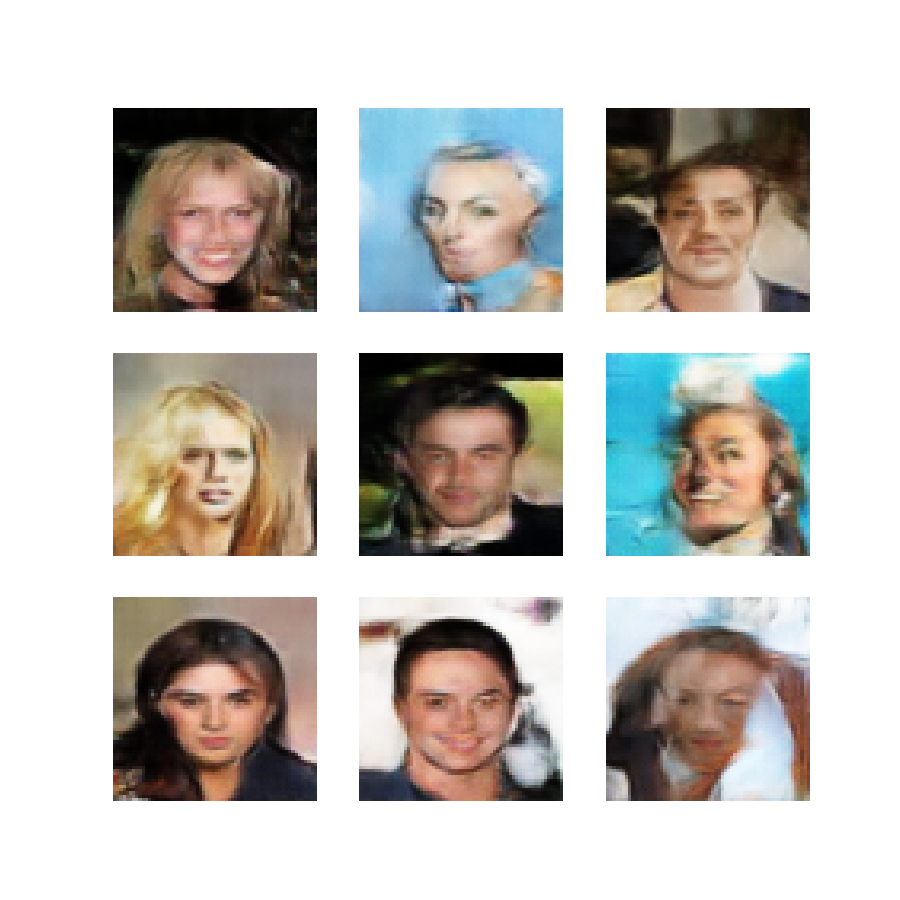
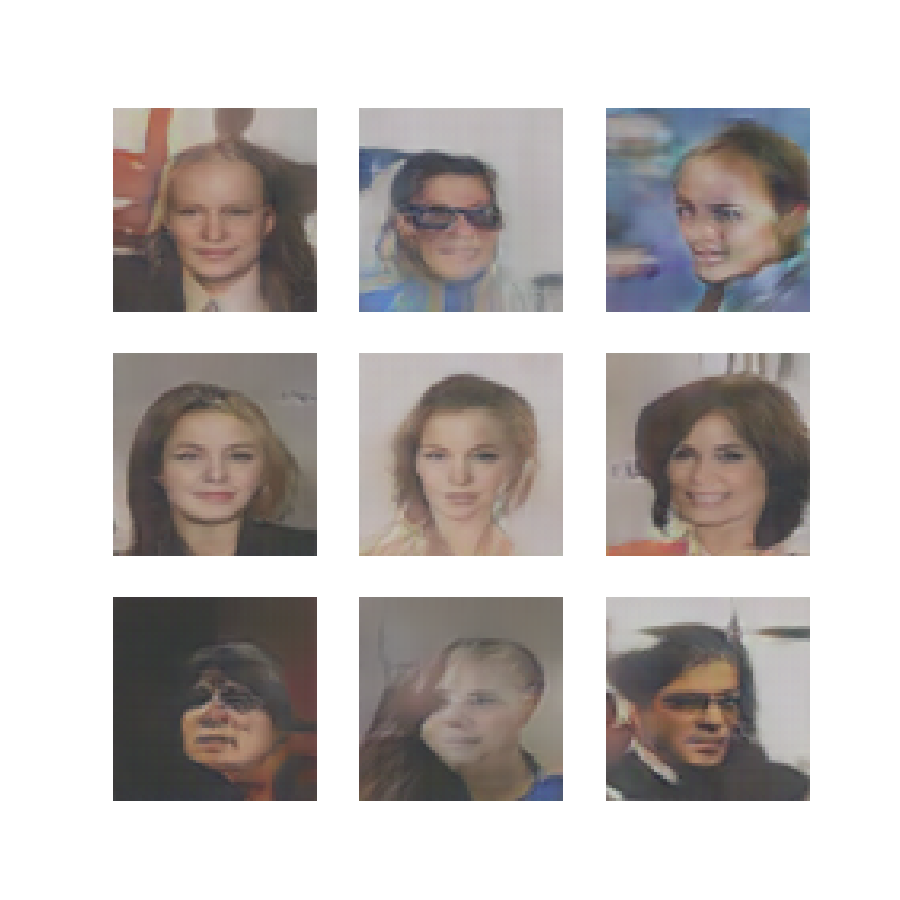
made some experimental optimization changes

diff --git a/6LayerGANForFaces-Full_Size-Optimized.py b/6LayerGANForFaces-Full_Size-Optimized.py
@@ -8,6 +8,8 @@ import numpy as np
 import math
 from PIL import Image
 import os
+from torch.cuda.amp import GradScaler
+from torch.nn import BCEWithLogitsLoss
 
 device = torch.device("cuda" if torch.cuda.is_available() else "cpu")
 
@@ -33,7 +35,7 @@ class CelebADataset(Dataset):
 
 # Reshape data and scale to [-1, 1]
 transform = transforms.Compose([
-    transforms.Resize((64, 64)),
+    transforms.Resize((128, 128)),
     transforms.ToTensor(),
 ])
 
@@ -48,7 +50,7 @@ global_batch_size = 64
 # Create a data loader
 # num_gpus = torch.cuda.device_count()
 # print("Number of available GPUs:", num_gpus)
-dataloader = DataLoader(dataset, batch_size=global_batch_size, shuffle=True, pin_memory=True, num_workers=8)
+dataloader = DataLoader(dataset, batch_size=global_batch_size, shuffle=True, num_workers=8, pin_memory=True)
 
 # Create a 3x3 grid for the images
 fig, axes = plt.subplots(3, 3, figsize=(9, 9))
@@ -62,7 +64,7 @@ for i in range(9):
     axes[i].axis('off')  # Turn off axes for cleaner look
 
 base = 'produced_images'
-plt.savefig(os.path.join(base, 'celeba_sample.png'))
+plt.savefig(os.path.join(base, 'celeba_sample_128.png'))
 plt.close(fig)
 
 # Define Generator Class
@@ -71,25 +73,30 @@ class Generator(nn.Module):
         super(Generator, self).__init__()
         self.main = nn.Sequential(
             # input is Z, going into a convolution
-            nn.ConvTranspose2d(100, 512, 4, 1, 0, bias=False),
+            nn.ConvTranspose2d(100, 1024, 4, 1, 0, bias=False),
+            nn.BatchNorm2d(1024),
+            nn.ReLU(True),
+            # state size. 1024 x 4 x 4
+            nn.ConvTranspose2d(1024, 512, 4, 2, 1, bias=False),
             nn.BatchNorm2d(512),
             nn.ReLU(True),
-            # state size. 512 x 4 x 4
+            # state size. 512 x 8 x 8
             nn.ConvTranspose2d(512, 256, 4, 2, 1, bias=False),
             nn.BatchNorm2d(256),
             nn.ReLU(True),
-            # state size. 256 x 8 x 8
+            # state size. 256 x 16 x 16
             nn.ConvTranspose2d(256, 128, 4, 2, 1, bias=False),
             nn.BatchNorm2d(128),
             nn.ReLU(True),
-            # state size. 128 x 16 x 16
-            nn.ConvTranspose2d(128, 64, 4, 2, 1, bias=False),
+            # state size. 128 x 32 x 32
+            nn.ConvTranspose2d(128, 64, 4, 2, 1, bias=False), 
             nn.BatchNorm2d(64),
             nn.ReLU(True),
-            # state size. 64 x 32 x 32
+            # state size. 64 x 64 x 64
+
             nn.ConvTranspose2d(64, 3, 4, 2, 1, bias=False),  # Output 3 channels for RGB
             nn.Tanh()
-            # state size. 3 x 64 x 64
+            # state size. 3 x 128 x 128
         )
 
     def forward(self, input):
@@ -101,27 +108,30 @@ class Discriminator(nn.Module):
     def __init__(self):
         super(Discriminator, self).__init__()
         self.main = nn.Sequential(
-            # Input: 3 x 64 x 64
+            # Input: 3 x 128 x 128
             nn.Conv2d(3, 64, 3, stride=2, padding=1),
-            nn.BatchNorm2d(64),
             nn.LeakyReLU(0.2, inplace=True),
-            # state size. 64 x 32 x 32
+            # state size. 64 x 64 x 64
             nn.Conv2d(64, 128, 3, stride=2, padding=1),
             nn.BatchNorm2d(128),
             nn.LeakyReLU(0.2, inplace=True),
-            # state size. 128 x 16 x 16
+            # state size. 128 x 32 x 32
             nn.Conv2d(128, 256, 3, stride=2, padding=1),
             nn.BatchNorm2d(256),
             nn.LeakyReLU(0.2, inplace=True),
-            # state size. 256 x 8 x 8
+            # state size. 256 x 16 x 16
             nn.Conv2d(256, 512, 3, stride=2, padding=1),
             nn.BatchNorm2d(512),
             nn.LeakyReLU(0.2, inplace=True),
-            # state size. 512 x 4 x 4
+            # state size. 512 x 8 x 8
+            nn.Conv2d(512, 1024, 3, stride=2, padding=1),
+            nn.BatchNorm2d(1024),
+            nn.LeakyReLU(0.2, inplace=True),
+            # state size. 1024 x 4 x 4
 
-            nn.Conv2d(512, 1, kernel_size=4, stride=1, padding=0),
+            nn.Conv2d(1024, 1, kernel_size=4, stride=1, padding=0),
             # state size. 1 x 1 x 1
-            nn.Sigmoid()
+            # nn.Sigmoid()
             # state size. 1
         )
 
@@ -135,18 +145,15 @@ netD = Discriminator().to(device)
 
 # Hyperparameters
 num_epochs = 20
-lr = 0.002
+lr = 0.0002
 beta1 = 0.5
 
 # Binary cross entropy loss and optimizer
-criterion = nn.BCELoss()
+scaler = GradScaler()
+criterion = BCEWithLogitsLoss()
 
 optimizerD = torch.optim.Adam(netD.parameters(), lr=lr, betas=(beta1, 0.999))
 optimizerG = torch.optim.Adam(netG.parameters(), lr=lr, betas=(beta1, 0.999))
-
-gen_loss = []
-dis_loss = []
-batch_count = []
 
 dataloader_length = len(dataloader)
 
@@ -159,32 +166,32 @@ for epoch in range(1, num_epochs + 1):
         label = torch.full((batch_size,), 1, dtype=torch.float, device=device)
 
         # Train Discriminator
-        netD.zero_grad()
-        output = netD(real_data).view(-1)
-        errD_real = criterion(output, label)
-        errD_real.backward()
+        netD.zero_grad(set_to_none=True)
+        with torch.cuda.amp.autocast():
+            output = netD(real_data).view(-1)
+            errD_real = criterion(output, label)
+        scaler.scale(errD_real).backward()
         
         noise = torch.randn(batch_size, 100, 1, 1, device=device)
         fake = netG(noise)
-        label.fill_(0) # The discriminator wants to classify the fake images as fake
-        output = netD(fake.detach()).view(-1)
-        errD_fake = criterion(output, label)
-        errD_fake.backward()
+        label.fill_(0)
+        with torch.cuda.amp.autocast():
+            output = netD(fake.detach()).view(-1)
+            errD_fake = criterion(output, label)
+        scaler.scale(errD_fake).backward()
         errD = errD_real + errD_fake
-        optimizerD.step()
+        scaler.step(optimizerD)
+        scaler.update()
 
         # Train Generator
-        netG.zero_grad()
+        netG.zero_grad(set_to_none=True)
         label.fill_(1)  # The generator wants the discriminator to think the fake images are real
-        output = netD(fake).view(-1)
-        errG = criterion(output, label)
-        errG.backward()
-        optimizerG.step()
-
-        # Save Losses for plotting later
-        gen_loss.append(errG.item())
-        dis_loss.append(errD.item())
-        batch_count.append(i + dataloader_length * epoch)
+        with torch.cuda.amp.autocast():
+            output = netD(fake).view(-1)
+            errG = criterion(output, label)
+        scaler.scale(errG).backward()
+        scaler.step(optimizerG)
+        scaler.update()
 
         if i % 50 == 0:
             print(f'[{epoch}/{num_epochs}][{i}/{dataloader_length}] Loss_D: {errD.item():.4f} Loss_G: {errG.item():.4f}')
@@ -209,16 +216,5 @@ for i in range(9):
     axes[i].imshow(np.transpose(image.numpy(), (1, 2, 0)))  # Directly use numpy and transpose here
     axes[i].axis('off')  # Turn off axes for cleaner look
 
-plt.savefig(os.path.join(base, 'celeba_fake.png'))
+plt.savefig(os.path.join(base, 'celeba_fake_128_6layer.png'))
 plt.close(fig)
-
-# Graph the Loss
-plt.figure(figsize=(10, 5))
-plt.title("Generator and Discriminator Loss During Training")
-plt.plot(batch_count, gen_loss, label="Generator")
-plt.plot(batch_count, dis_loss, label="Discriminator")
-plt.xlabel("Batch Count")
-plt.ylabel("Loss")
-plt.legend()
-plt.savefig(os.path.join(base, 'celeba_loss.png'))
-plt.close()

diff --git a/5LayerGANForFaces-Optimized.py b/5LayerGANForFaces-Optimized.py
@@ -8,6 +8,8 @@ import numpy as np
 import math
 from PIL import Image
 import os
+from torch.cuda.amp import GradScaler
+from torch.nn import BCEWithLogitsLoss
 
 device = torch.device("cuda" if torch.cuda.is_available() else "cpu")
 
@@ -103,7 +105,6 @@ class Discriminator(nn.Module):
         self.main = nn.Sequential(
             # Input: 3 x 64 x 64
             nn.Conv2d(3, 64, 3, stride=2, padding=1),
-            nn.BatchNorm2d(64),
             nn.LeakyReLU(0.2, inplace=True),
             # state size. 64 x 32 x 32
             nn.Conv2d(64, 128, 3, stride=2, padding=1),
@@ -121,7 +122,7 @@ class Discriminator(nn.Module):
 
             nn.Conv2d(512, 1, kernel_size=4, stride=1, padding=0),
             # state size. 1 x 1 x 1
-            nn.Sigmoid()
+            # nn.Sigmoid() #Commented because of LogitLoss
             # state size. 1
         )
 
@@ -134,23 +135,21 @@ netG = Generator().to(device)
 netD = Discriminator().to(device)
 
 # Hyperparameters
-num_epochs = 20
-lr = 0.002
+num_epochs = 5
+lr = 0.0002
 beta1 = 0.5
 
 # Binary cross entropy loss and optimizer
-criterion = nn.BCELoss()
+scaler = GradScaler()
+criterion = BCEWithLogitsLoss()
 
 optimizerD = torch.optim.Adam(netD.parameters(), lr=lr, betas=(beta1, 0.999))
 optimizerG = torch.optim.Adam(netG.parameters(), lr=lr, betas=(beta1, 0.999))
 
-gen_loss = []
-dis_loss = []
-batch_count = []
+# Training Loop
 
 dataloader_length = len(dataloader)
 
-# Training Loop
 for epoch in range(1, num_epochs + 1):
     for i, data in enumerate(dataloader, 0):
         # Transfer data tensor to GPU/CPU (device)
@@ -160,31 +159,40 @@ for epoch in range(1, num_epochs + 1):
 
         # Train Discriminator
         netD.zero_grad()
-        output = netD(real_data).view(-1)
-        errD_real = criterion(output, label)
-        errD_real.backward()
+        # Wrap the forward pass in an autocast context
+        with torch.cuda.amp.autocast():
+            output = netD(real_data).view(-1)
+            # Pass the pre-sigmoid output to criterion
+            errD_real = criterion(output, label)
+        # Scale the loss and call backward
+        scaler.scale(errD_real).backward()
         
         noise = torch.randn(batch_size, 100, 1, 1, device=device)
         fake = netG(noise)
-        label.fill_(0) # The discriminator wants to classify the fake images as fake
-        output = netD(fake.detach()).view(-1)
-        errD_fake = criterion(output, label)
-        errD_fake.backward()
+        label.fill_(0)
+        with torch.cuda.amp.autocast():
+            output = netD(fake.detach()).view(-1)
+            # Pass the pre-sigmoid output to criterion
+            errD_fake = criterion(output, label)
+        # Scale the loss and call backward
+        scaler.scale(errD_fake).backward()
         errD = errD_real + errD_fake
-        optimizerD.step()
+        # Step the optimizer and unscale the gradients
+        scaler.step(optimizerD)
+        scaler.update()
 
         # Train Generator
         netG.zero_grad()
         label.fill_(1)  # The generator wants the discriminator to think the fake images are real
-        output = netD(fake).view(-1)
-        errG = criterion(output, label)
-        errG.backward()
-        optimizerG.step()
-
-        # Save Losses for plotting later
-        gen_loss.append(errG.item())
-        dis_loss.append(errD.item())
-        batch_count.append(i + dataloader_length * epoch)
+        with torch.cuda.amp.autocast():
+            output = netD(fake).view(-1)
+            # Pass the pre-sigmoid output to criterion
+            errG = criterion(output, label)
+        # Scale the loss and call backward
+        scaler.scale(errG).backward()
+        # Step the optimizer and unscale the gradients
+        scaler.step(optimizerG)
+        scaler.update()
 
         if i % 50 == 0:
             print(f'[{epoch}/{num_epochs}][{i}/{dataloader_length}] Loss_D: {errD.item():.4f} Loss_G: {errG.item():.4f}')
@@ -211,14 +219,3 @@ for i in range(9):
 
 plt.savefig(os.path.join(base, 'celeba_fake.png'))
 plt.close(fig)
-
-# Graph the Loss
-plt.figure(figsize=(10, 5))
-plt.title("Generator and Discriminator Loss During Training")
-plt.plot(batch_count, gen_loss, label="Generator")
-plt.plot(batch_count, dis_loss, label="Discriminator")
-plt.xlabel("Batch Count")
-plt.ylabel("Loss")
-plt.legend()
-plt.savefig(os.path.join(base, 'celeba_loss.png'))
-plt.close()
